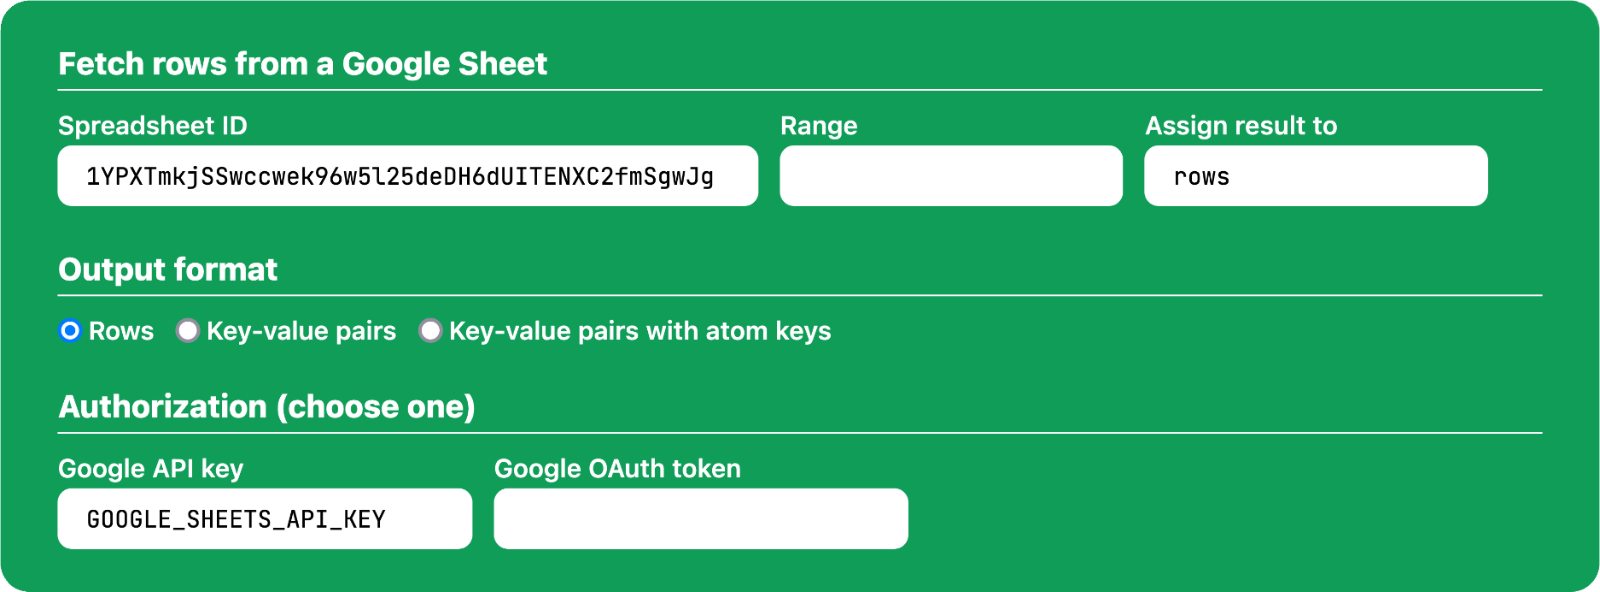
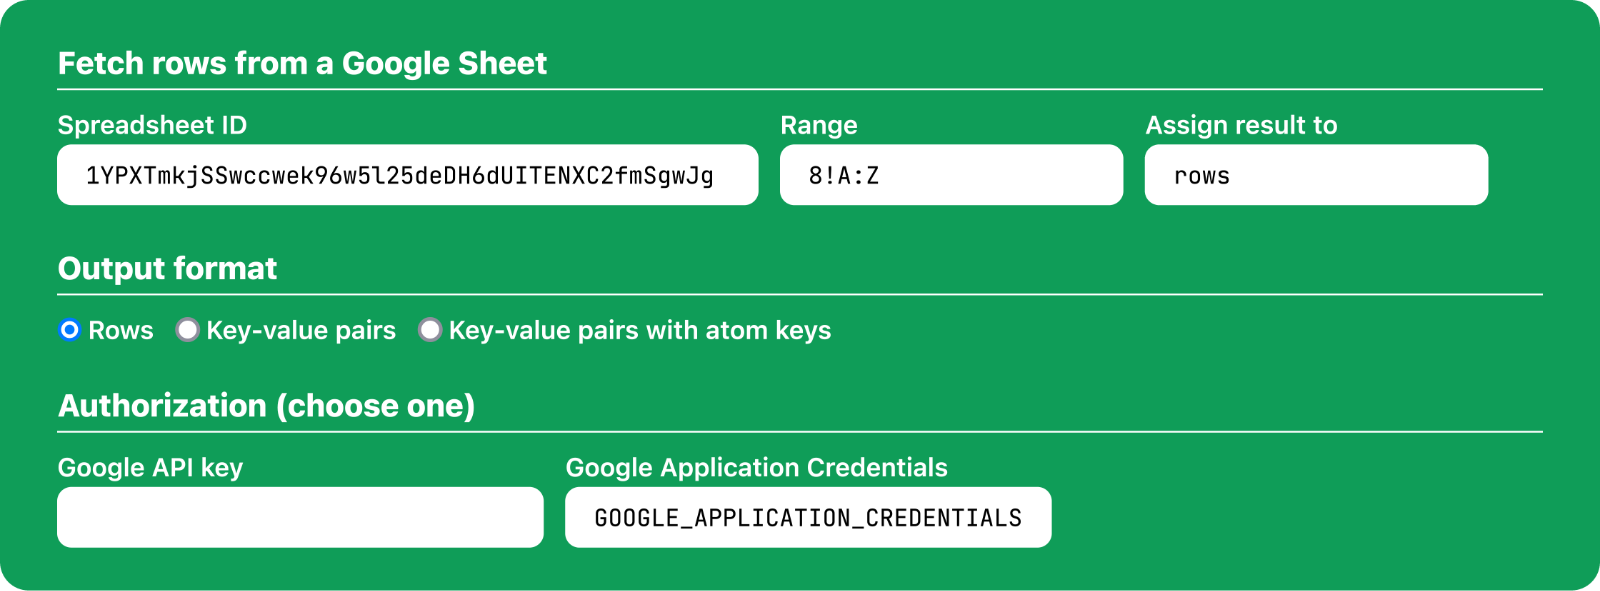
replace oauth authorization with service account authorization

diff --git a/lib/assets/main.js b/lib/assets/main.js
@@ -54,7 +54,7 @@ export function init(ctx, payload) {
           class="choose-env"
           role="button"
           type="text"
-          size="25"
+          size="30"
           name="key_env"
           id="key_env"
           autocomplete="off"
@@ -64,16 +64,16 @@ export function init(ctx, payload) {
       </div>
 
       <div class="col">
-        <label for="oauth_token_env">Google OAuth token</label>
+        <label for="google_application_credentials_env">Google Application Credentials</label>
         <input
           class="clickable choose-env"
           role="button"
           type="text"
-          size="25"
-          name="oauth_token_env"
-          id="oauth_token_env"
+          size="30"
+          name="google_application_credentials_env"
+          id="google_application_credentials_env"
           autocomplete="off"
-          data-suggested-env="GOOGLE_SHEETS_OAUTH_TOKEN"
+          data-suggested-env="GOOGLE_APPLICATION_CREDENTIALS"
           readonly
         />
       </div>

diff --git a/README.md b/README.md
@@ -1,12 +1,8 @@
 # KinoSheetex
 
-<img style="aspect-ratio:1600/592;" src=".github/images/smart-cell.webp" alt="Smart Cell preview"/>
+<img style="aspect-ratio:1600/591;" src=".github/images/smart-cell.webp" alt="Smart Cell preview"/>
 
-KinoSheetex is a Livebook smart cell for fetching rows from a Google Sheet.
-Authorization with Google APIs is required, either via an API key or an OAuth token
-([see documentation](https://developers.google.com/workspace/guides/create-credentials)).
-
-Documentation: <https://hexdocs.pm/kino_sheetex/>.
+KinoSheetex is a Livebook smart cell for fetching rows from Google Sheets. Data is fetched using Google APIs and requires authorization – either using an API key (for public sheets) or a service account (for public and private sheets). For a detailed usage guide and instructions on obtaining authorization credentials, head over to the documentation: https://hexdocs.pm/kino_sheetex/.
 
 ## Installation
 
@@ -14,6 +10,6 @@ The package can be installed by adding `kino_sheetex` to `Mix.install/2`.
 
 ```elixir
 Mix.install([
-  {:kino_sheetex, "~> 0.3.0"}
+  {:kino_sheetex, "~> 0.4.0"}
 ])
 ```
